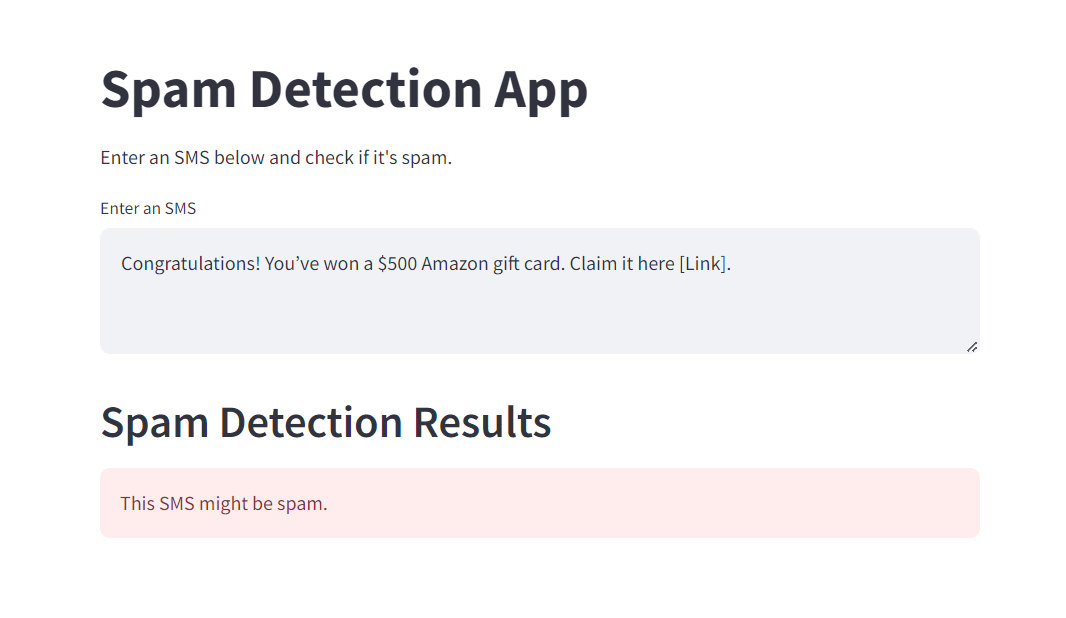
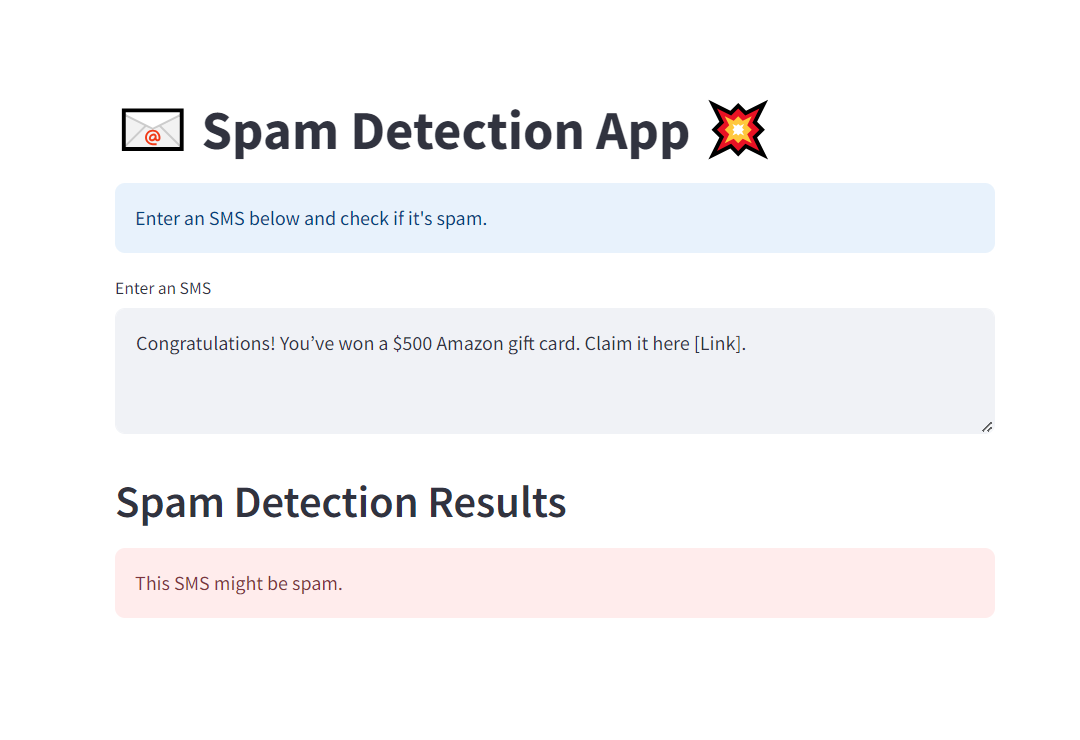
Add files via upload

diff --git a/app.py b/app.py
@@ -16,9 +16,40 @@ st.set_page_config(
     page_icon=":email:"
 )
 
+import streamlit as st
+
+# Sidebar content
+sidebar_content = """
+# Ecole Supérieure de Technologie Fkih Ben Salah
+
+---
+
+**Équipe de réalisation :**
+
+- 👨🎓 &nbsp;&nbsp;&nbsp;&nbsp; Nassim Aït Dihim
+- 👨🎓 &nbsp;&nbsp;&nbsp;&nbsp; Said Tallouk
+- 👨🎓 &nbsp;&nbsp;&nbsp;&nbsp; Anass Nabil
+- 👨🎓 &nbsp;&nbsp;&nbsp;&nbsp; Mohammed Laalahmi
+
+---
+
+**Demandé Par :**
+
+- 👨🏫 &nbsp;&nbsp;&nbsp;&nbsp; Pr. Hassan Fouazi
+"""
+
+# Load the image
+image = 'estfbs logo.png'  # Replace with the path to your image
+
+# Display the image in the sidebar
+st.sidebar.image(image, width=150)
+
+# Display sidebar content
+st.sidebar.markdown(sidebar_content)
+
 # Header
-st.title("Spam Detection App")
-st.write("Enter an SMS below and check if it's spam.")
+st.title("📧 Spam Detection App 💥")
+st.info("Enter an SMS below and check if it's spam.")
 
 # SMS input
 sms = st.text_area("Enter an SMS")

diff --git a/README.md b/README.md
@@ -4,7 +4,7 @@ This project involves creating an application for spam detection using NLP & a N
 
 ## Project Contents
 
-1. `app.py`: The main file of the Streamlit application.
+1. `Spam Detection Application.py`: The main file of the Streamlit application.
 2. `spam_classifier_model.joblib`: The trained model saved in joblib format.
 3. `requirements.txt`: Python dependencies required to run the application.
 4. `README.md` (this file): Instructions and project description.
@@ -18,14 +18,14 @@ Make sure you have Python installed on your system. You can download Python from
 1. Clone this repository to your local machine:
 git clone https://github.com/nassimaitdihim/Spam-Detection-Using-NLP-NBM.git
 2. Navigate to the project directory:
-`cd "Spam-Detection-Using-NLP-NBM-master"`
+`cd Spam Detection Using NLP & MNB`
 3. Install the required dependencies:
 `pip install -r requirements.txt`
 
 ## Usage
 
 1. Run the application by executing the following command in your terminal:
-`streamlit run "app.py"`
+`streamlit run "Spam Detection Application.py"`
 2. Open your web browser and access the URL provided in the console.
 
 ## Features
@@ -47,3 +47,9 @@ Nassim Aït Dihim & Said Tallouk & Anass Nabil & Mohammed Laalahmi
 ## License
 
 This project is licensed under the [NDHM](LICENSE) license.
+
+
+## Video Demonstration
+
+![Spam Detection](Demonstration.gif)
+
